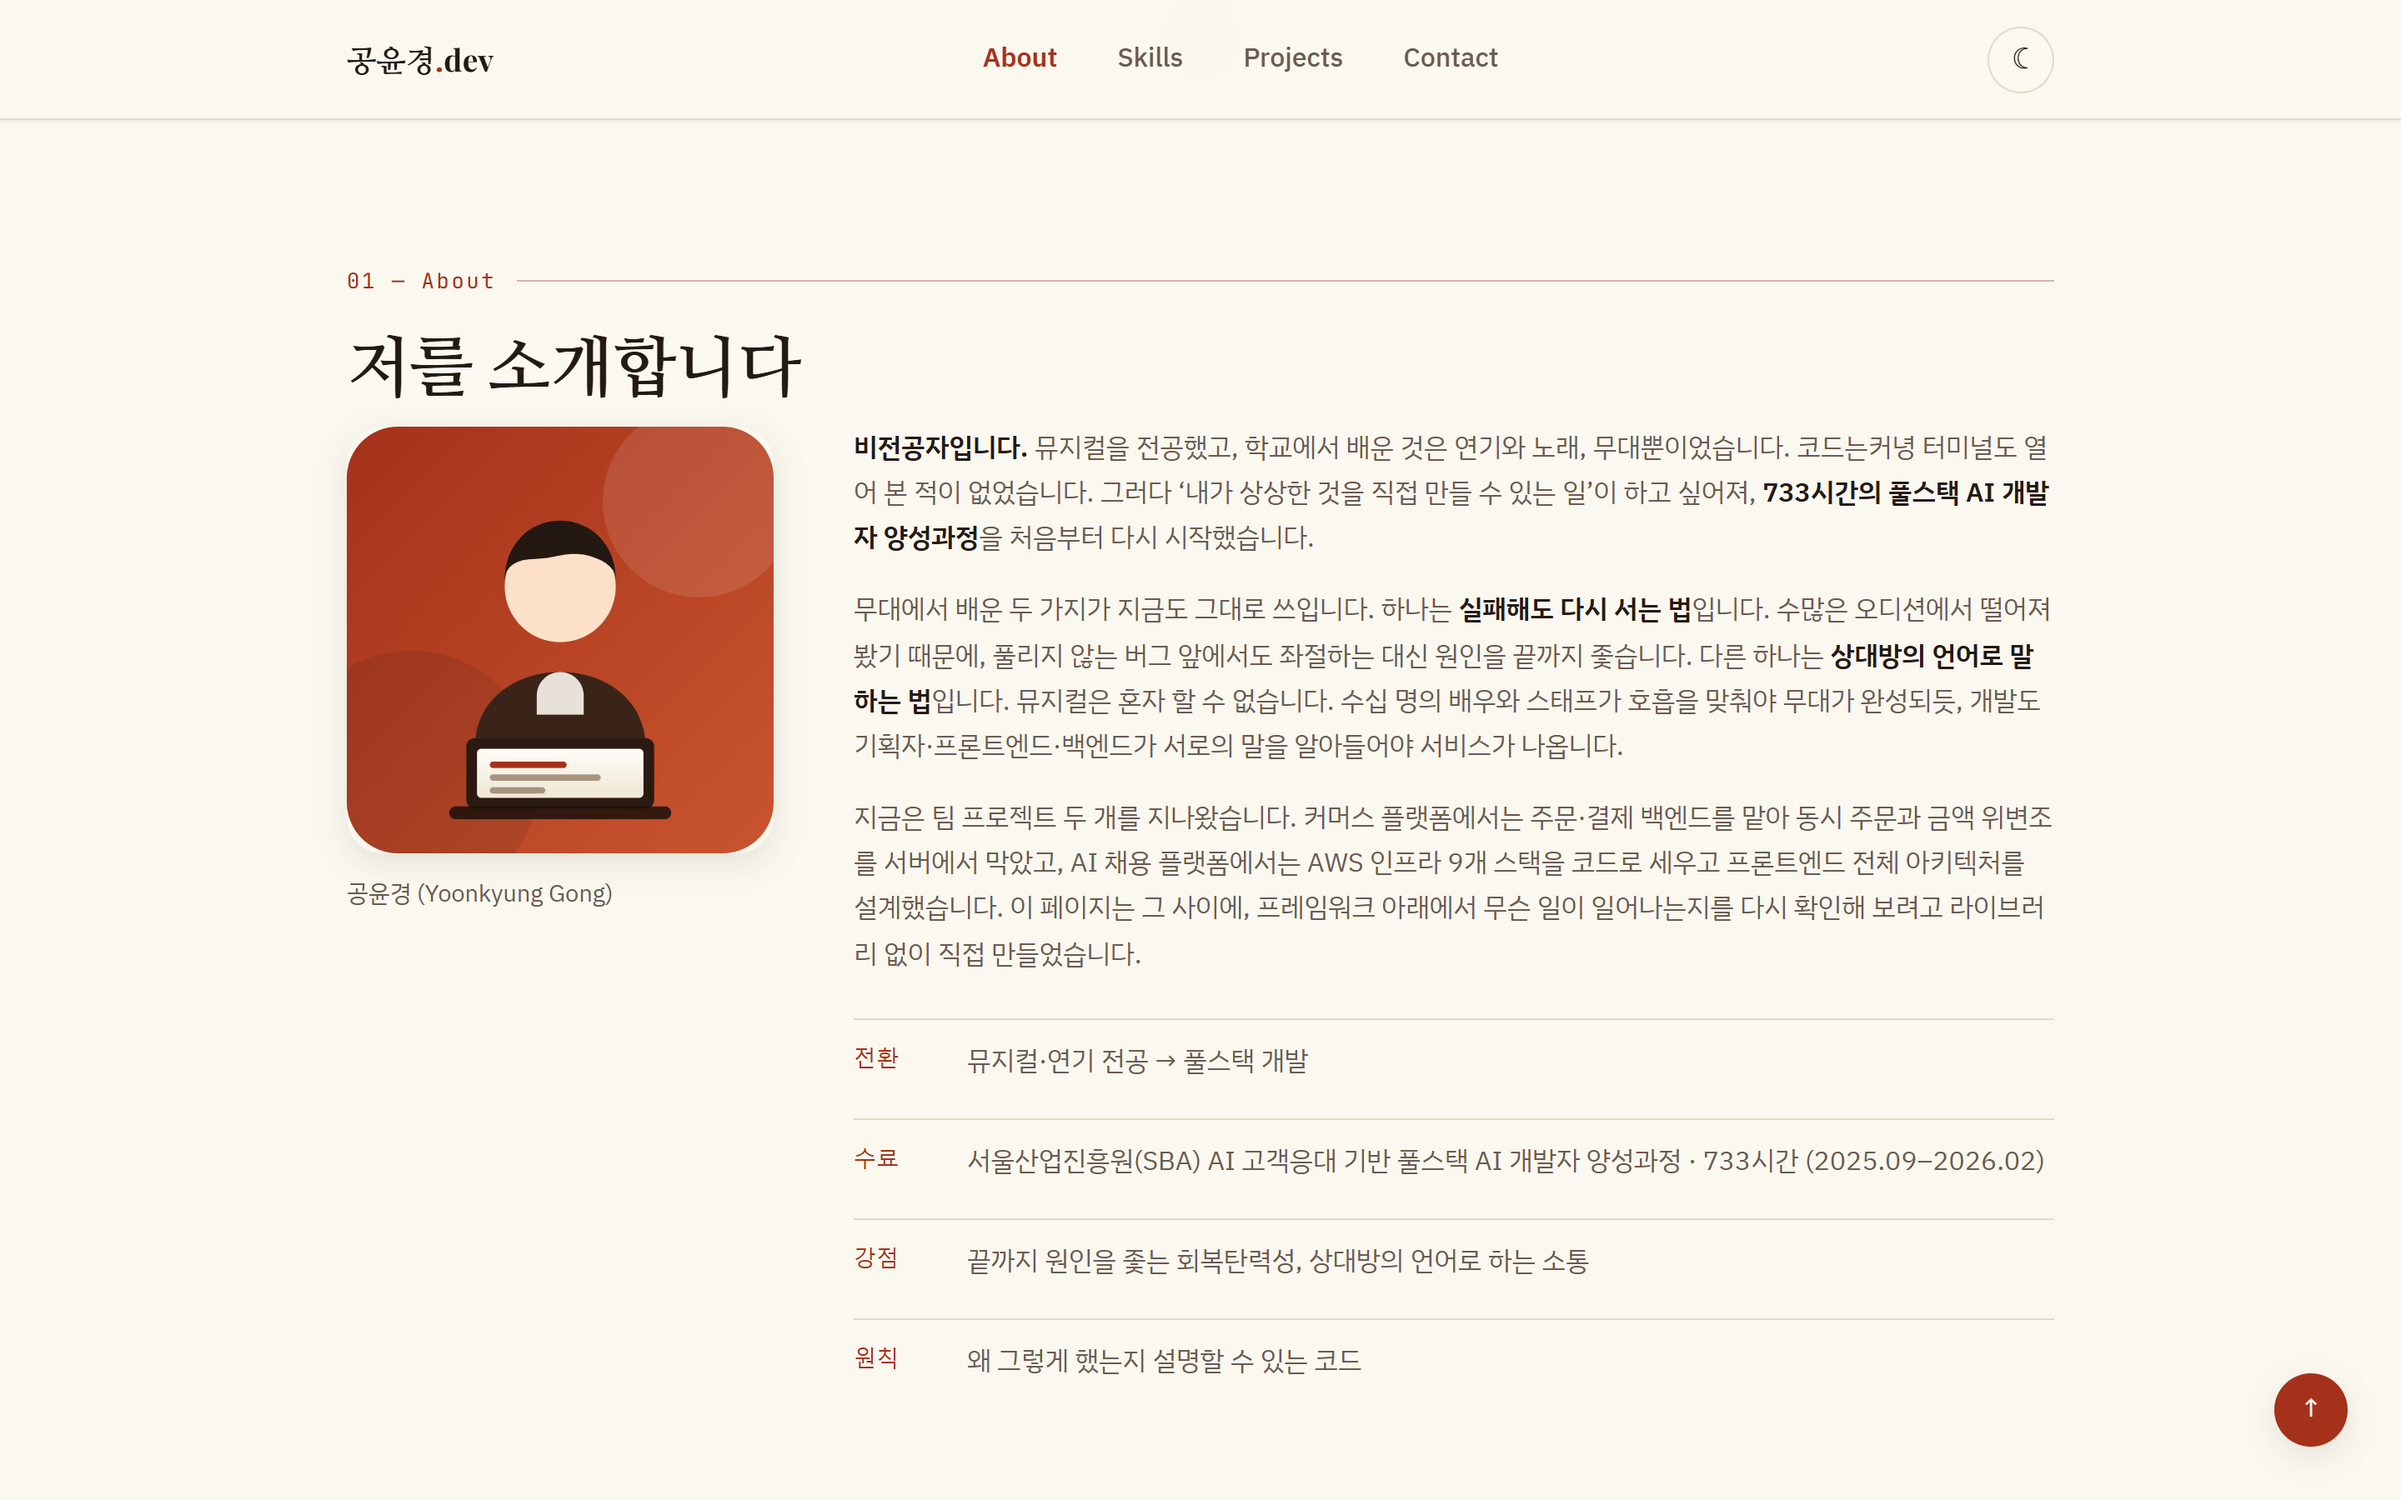
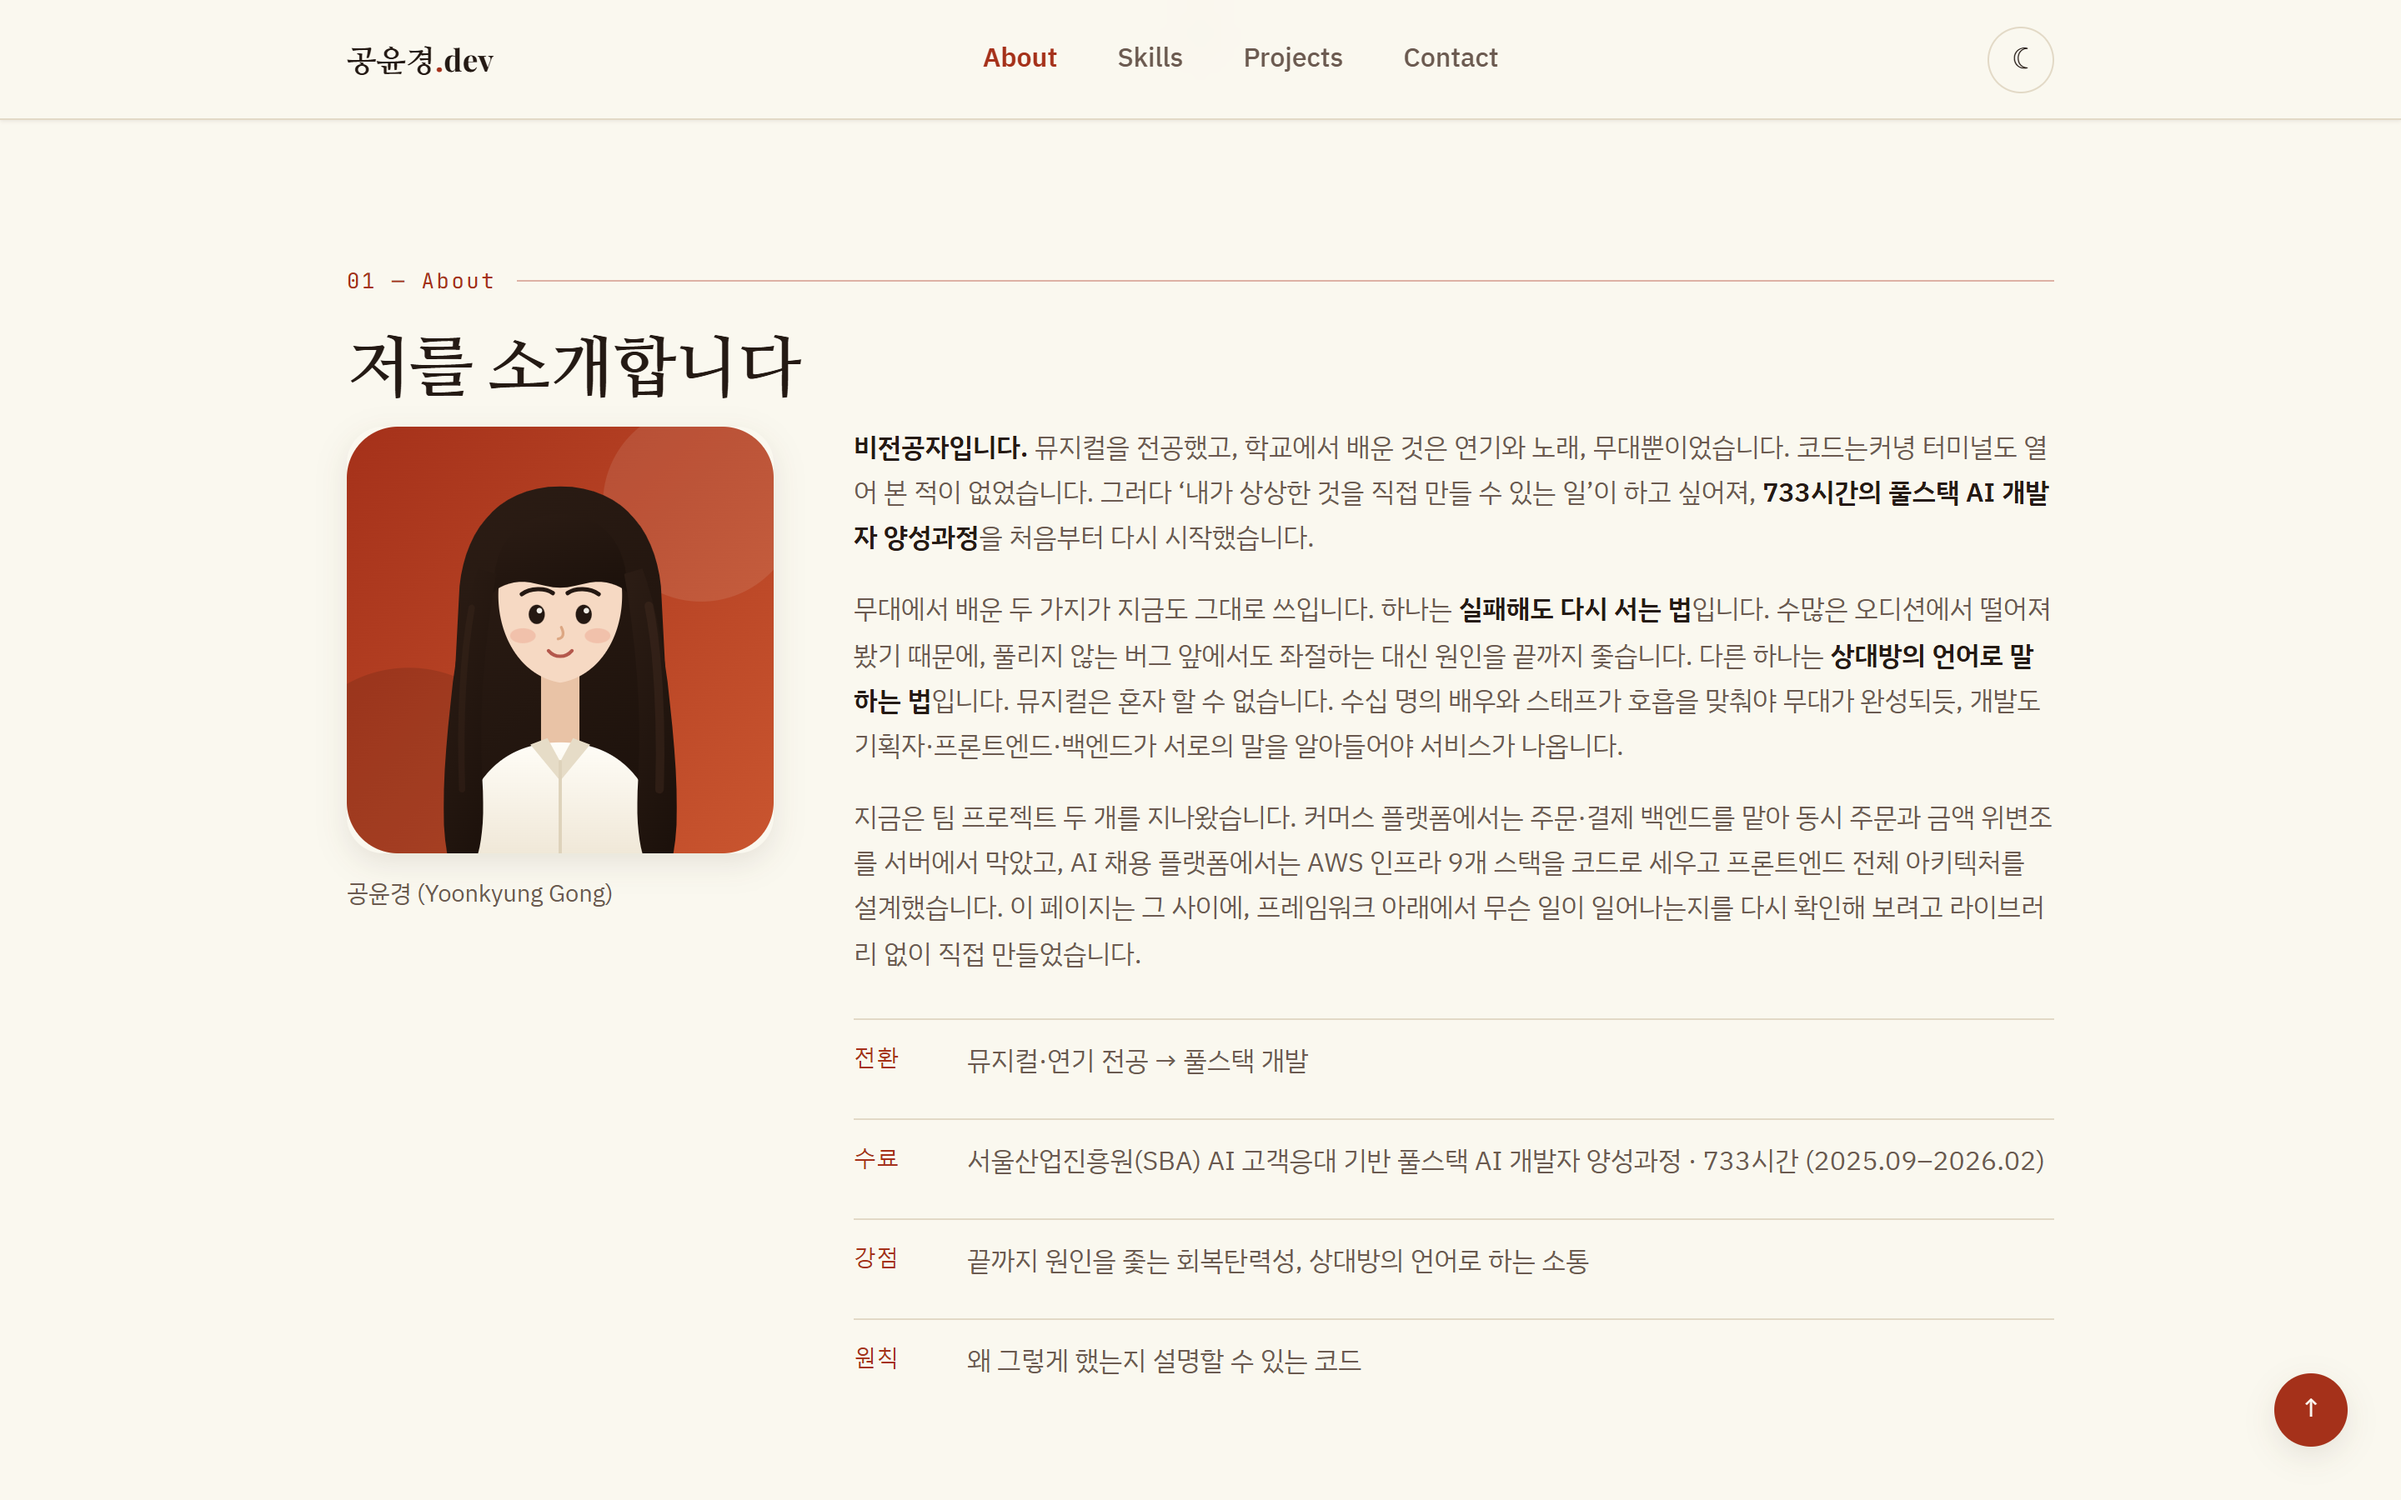
Feat: 프로필 이미지를 사진 기반 인물 일러스트로 교체
노트북 앞에 앉은 사람을 그린 일반적인 그림을 빼고, 일자 앞머리에 긴 생머리,
흰 셔츠라는 실제 특징을 살린 인물 일러스트를 SVG 로 그렸다. 사진을 그대로 옮기지
않고 사이트의 벽돌빛 팔레트 안에서 도형으로 단순화했다.

그리면서 고친 것이 셋이다. 목이 셔츠에 닿기 전에 끝나 그 사이로 뒷머리가 검게
비쳤고, 앞머리 끝이 눈썹에서 멀어 이마가 넓어 보였으며, 머릿결 빛을 얼굴 바로
옆에 둬서 따로 난 가닥처럼 보였다. 목을 셔츠 아래까지 늘이고, 앞머리를 눈썹
가까이 내리고, 빛을 바깥쪽 머리로 옮겼다.

alt 는 무엇이 그려져 있는지가 전달되도록 다시 썼고, SVG 안에도 title 과 desc 를
넣어 파일만 따로 열어도 설명이 남게 했다.

Projects 스크린샷은 직전 것을 그대로 둔다. 검증을 반복하며 GitHub API 의 시간당
60회 한도를 다 써서, 지금 다시 찍으면 에러 화면이 담긴다. 화면 자체는 의도대로
레이트 리밋 안내를 보여 주고 있다.

Claude-Session: https://claude.ai/code/session_01PsmCD1XgMXJFLaeKV3r5AQ

Changed region(s): [[0.1875, 0.3111, 0.2812, 0.5911]]

diff --git a/portfolio-website/index.html b/portfolio-website/index.html
@@ -109,7 +109,7 @@
         <div class="about">
           <figure class="about__figure">
             <img class="about__photo" src="images/profile.svg" width="400" height="400"
-                 alt="공윤경의 프로필 이미지. 노트북 앞에 앉아 있는 사람을 단순한 도형으로 그린 그림입니다." />
+                 alt="공윤경의 프로필 일러스트. 일자 앞머리에 긴 검은 생머리를 하고 흰 셔츠를 입은 사람을 벽돌빛 배경 위에 단순한 도형으로 그린 그림입니다." />
             <figcaption class="about__caption">공윤경 (Yoonkyung Gong)</figcaption>
           </figure>
 
